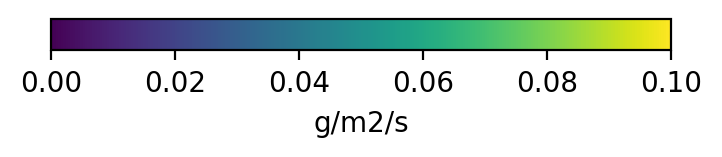
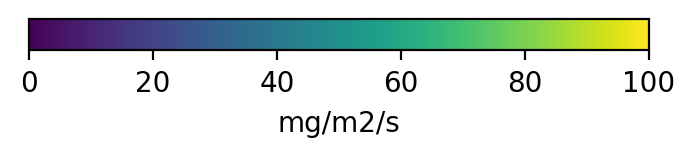
feat: adding custom area chart for evaporation wip

diff --git a/app/src/config/trilateral.js b/app/src/config/trilateral.js
@@ -1078,12 +1078,21 @@ const getYearlyDates = (start, end) => {
   return dateArray;
 };
 
-const getDailyDates = (start, end, interval = 1) => {
+const getDailyDates = (start, end, interval = 1, s3Path = null, formatFunction = null) => {
   let currentDate = DateTime.fromISO(start);
   const stopDate = DateTime.fromISO(end);
   const dateArray = [];
   while (currentDate <= stopDate) {
-    dateArray.push(DateTime.fromISO(currentDate).toFormat('yyyy-MM-dd'));
+    if (s3Path) {
+      const t = DateTime.fromISO(currentDate).toFormat('yyyy-MM-dd');
+      let evaluated = s3Path.replace('{time}', t);
+      if (formatFunction) {
+        evaluated = s3Path.replace('{time}', formatFunction(t));
+      }
+      dateArray.push([t, evaluated]);
+    } else {
+      dateArray.push(DateTime.fromISO(currentDate).toFormat('yyyy-MM-dd'));
+    }
     currentDate = DateTime.fromISO(currentDate).plus({ days: interval });
   }
   return dateArray;
@@ -5999,19 +6008,23 @@ export const globalIndicators = [
           features: [],
         },
         aoiID: 'World',
-        time: getDailyDates('2002-08-02', '2021-12-01'),
+        time: getDailyDates('2002-08-02', '2021-12-01', 1, 's3://veda-data-store-staging/EIS/COG/LIS_GLOBAL_DA/Evap/LIS_Evap_{time}0000.d01.cog.tif', (date) => DateTime.fromISO(date).toFormat('yyyyMMdd')),
         inputData: [''],
-        yAxis: 'g/m2/s',
+        yAxis: 'mg/m2/s',
         eoSensor: null,
         display: {
           protocol: 'xyz',
           minZoom: 1,
           tileSize: 256,
-          url: 'https://staging-raster.delta-backend.com/cog/tiles/WebMercatorQuad/{z}/{x}/{y}?url=s3://veda-data-store-staging/EIS/COG/LIS_GLOBAL_DA/Evap/LIS_Evap_{time}0000.d01.cog.tif&nodata=0&rescale=0%2C0.0001&bidx=1&colormap_name=viridis', // rescale taken from VEDA defaults
+          url: 'https://staging-raster.delta-backend.com/cog/tiles/WebMercatorQuad/{z}/{x}/{y}?url={time}&nodata=0&rescale=0%2C0.0001&bidx=1&colormap_name=viridis', // rescale taken from VEDA defaults
           name: 'Evapotranspiration - LIS 10km Global DA',
           legendUrl: 'legends/trilateral/LIS_Global_DA_Evap.png',
-          dateFormatFunction: (date) => DateTime.fromISO(date).toFormat('yyyyMMdd'),
-          labelFormatFunction: (date) => DateTime.fromISO(date).toFormat('yyyy-MM-dd'),
+          dateFormatFunction: (date) => `${date[1]}`,
+          labelFormatFunction: (date) => DateTime.fromISO(date[0]).toFormat('yyyy-MM-dd'),
+          customAreaIndicator: true,
+          areaIndicator: nasaStatisticsConfig(
+            (value) => value * 1e6,
+          ),
         },
       },
     },

diff --git a/app/src/helpers/customAreaObjects.js b/app/src/helpers/customAreaObjects.js
@@ -386,11 +386,11 @@ export const fetchCustomAreaObjects = async (
   } else if (mergedConfig[lookup].url.includes('/cog/statistics')) {
     // Here we handle parallel requests to the new statistical api from nasa
     const requests = [];
-    // Add limit on how many requests we can send if there are over 600 time entries
+    // Add limit on how many requests we can send if there are over 365 time entries
     // TODO: Sending more requests overloads server, need to think how to handle this
     let requestTimes = indicator.time;
-    if (indicator.time.length > 600) {
-      requestTimes = indicator.time.slice(-600);
+    if (indicator.time.length > 365) {
+      requestTimes = indicator.time.slice(-365);
     }
     requestTimes.forEach((entry) => {
       const requestUrl = `${url}?url=${entry[1]}`;
